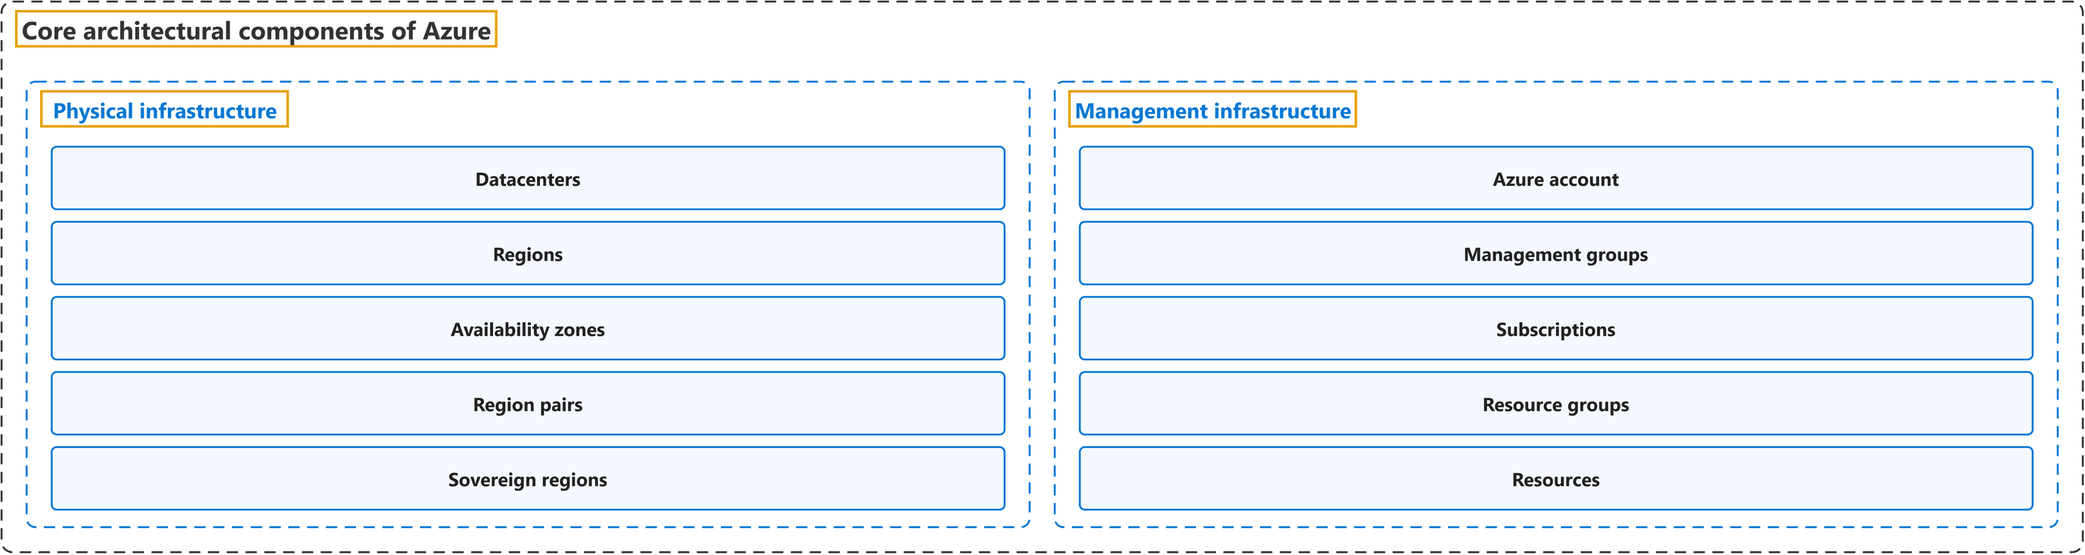
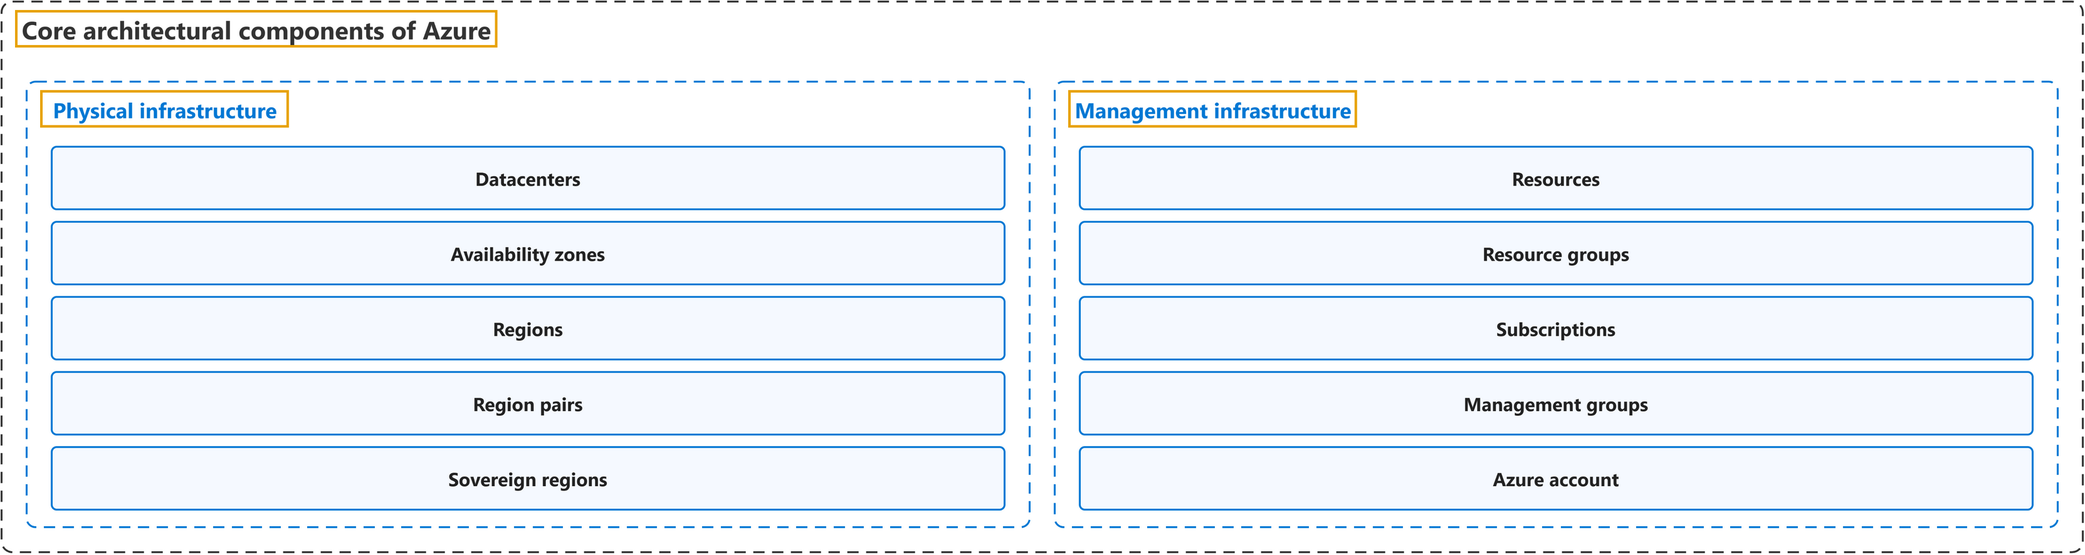
feat(azure): topic 1 renamed Cloud computing (official definition; stubs at cloud-concepts URLs); topic pages get Classification and Glossary headings, the framed topic as first glossary row, ordered groups, two-column exam table; watch.py preview with auto rebuild and reload

diff --git a/docs/templates/kb/public/kb.js b/docs/templates/kb/public/kb.js
@@ -519,4 +519,20 @@ async function main() {
   lightbox()
 }
 
+// Local preview only: watch.py rewrites kb-build.txt after each rebuild; reload the page when it changes.
+function liveReload() {
+  if (location.hostname !== 'localhost') return
+  let seen = null
+  const check = async () => {
+    const r = await fetch(`${rel}kb-build.txt`, { cache: 'no-store' }).catch(() => null)
+    if (!r?.ok) return // not served by watch.py
+    const stamp = await r.text()
+    if (seen !== null && stamp !== seen) location.reload()
+    seen = stamp
+    setTimeout(check, 1000)
+  }
+  check()
+}
+
 main()
+liveReload()

diff --git a/docs/templates/kb/watch.py b/docs/templates/kb/watch.py
@@ -1,0 +1,72 @@
+"""Local preview with automatic rebuild: serve docs/_site and rebuild it whenever a source file under docs/ changes.
+
+docfx 2.81 has no watch mode (`docfx --serve` builds once), so this polls the sources every second. After each build
+it writes _site/kb-build.txt; kb.js, on localhost only, polls that file and reloads the page when it changes.
+Run from the repo root (a full build takes about 10 s):
+    python docs/templates/kb/watch.py [port]
+"""
+import functools
+import http.server
+import os
+import subprocess
+import sys
+import threading
+import time
+from pathlib import Path
+
+DOCS = Path(__file__).resolve().parents[2]
+SITE = DOCS / "_site"
+DOCFX = Path.home() / ".dotnet" / "tools" / "docfx.exe"
+PORT = int(sys.argv[1]) if len(sys.argv) > 1 else 8080
+
+
+def snapshot():
+    """Modification time of every source file (the generated _site and docfx.build.json are left out)."""
+    times = {}
+    for root, dirs, files in os.walk(DOCS):
+        dirs[:] = [d for d in dirs if d not in ("_site", "obj")]
+        for f in files:
+            if f != "docfx.build.json":
+                p = os.path.join(root, f)
+                times[p] = os.stat(p).st_mtime
+    return times
+
+
+def build():
+    start = time.time()
+    r = subprocess.run([str(DOCFX), str(DOCS / "docfx.json")], capture_output=True, text=True, encoding="utf-8",
+                       errors="replace")
+    tail = [line for line in r.stdout.splitlines() if "warning(s)" in line or "error(s)" in line]
+    print(f"[{time.strftime('%H:%M:%S')}] built in {time.time() - start:.1f}s: {' '.join(s.strip() for s in tail)}",
+          flush=True)
+    if r.returncode != 0:
+        print(r.stdout[-2000:], flush=True)
+    (SITE / "kb-build.txt").write_text(str(time.time()), encoding="utf-8")
+
+
+class Quiet(http.server.SimpleHTTPRequestHandler):
+    def log_message(self, *args):
+        pass
+
+    def end_headers(self):
+        self.send_header("Cache-Control", "no-store")
+        super().end_headers()
+
+
+def serve():
+    handler = functools.partial(Quiet, directory=str(SITE))
+    http.server.ThreadingHTTPServer(("localhost", PORT), handler).serve_forever()
+
+
+if __name__ == "__main__":
+    build()
+    threading.Thread(target=serve, daemon=True).start()
+    print(f"serving http://localhost:{PORT}/ ; watching {DOCS}", flush=True)
+    last = snapshot()
+    while True:
+        time.sleep(1)
+        now = snapshot()
+        if now != last:
+            time.sleep(0.5)  # let an editor or script finish writing
+            build()
+            last = snapshot()

diff --git a/docs/cloud/azure/cloud-computing/index.md b/docs/cloud/azure/cloud-computing/index.md
@@ -1,0 +1,45 @@
+---
+title: "1. Cloud computing"
+description: "Microsoft Azure, 1. Cloud computing: deployment models, service models, actors, essential characteristics, benefits and the consumption-based model."
+ms.date: 2026-10-21
+---
+
+# 1. Cloud computing
+
+## Classification
+
+![Cloud computing sorted into six groups: deployment models, service models, actors, essential characteristics, benefits and the consumption-based model. Predictability and manageability are grey: not taught in a course yet.](media/cloud-computing.png)
+
+## Glossary
+
+| Term | Definition | 中文翻译 | Source |
+|---|---|---|---|
+| **Cloud computing**<br>云计算 | "**Cloud computing** is the **delivery of computing services** over the **internet**. Computing services include **common IT infrastructure** such as virtual machines, storage, databases, and networking." | **云计算**是指**计算服务的交付**，通过**互联网**进行。计算服务包括**常见的 IT 基础结构**，例如虚拟机、存储、数据库和网络。 | [Microsoft, n.d.-a, "What is cloud computing" unit, para. 1](https://learn.microsoft.com/en-us/training/modules/describe-cloud-compute/3-what-cloud-compute#:~:text=Cloud%20computing%20is%20the%20delivery%20of%20computing%20services%20over%20the%20internet) |
+| **[Deployment models](deployment-models.md)**<br>部署模型 | "**Deployment models** describe how cloud environments are **structured**, who **manages** them, and how they are **accessed**." | **部署模型**描述云环境如何**构建**、由谁**管理**，以及如何**访问**。 | [Microsoft, n.d.-b, "Types of cloud deployment models" section, para. 1](https://azure.microsoft.com/en-us/resources/cloud-computing-dictionary/types-of-cloud-computing#:~:text=Deployment%20models%20describe%20how%20cloud%20environments%20are%20structured) |
+| **[Service models](service-models.md)**<br>服务模型 | "**Service models** describe how cloud resources are **delivered to users**. They determine how much **control** an organization has over infrastructure, platforms, or applications." | **服务模型**描述云资源如何**交付给用户**。它们决定组织对基础结构、平台或应用程序拥有多少**控制权**。 | [Microsoft, n.d.-b, "Types of cloud service models" section, para. 1](https://azure.microsoft.com/en-us/resources/cloud-computing-dictionary/types-of-cloud-computing#:~:text=Service%20models%20describe%20how%20cloud%20resources%20are%20delivered%20to%20users.%20They) |
+| **[Actors](actors.md)**<br>参与者 | "... the NIST cloud computing reference architecture defines **five major actors**: cloud consumer, cloud provider, cloud carrier, cloud auditor and cloud broker. Each actor is an **entity (a person or an organization)** that **participates in a transaction or process** and/or performs tasks in cloud computing." | ……NIST 云计算参考架构定义了**五个主要参与者**：云使用者、云提供者、云运营商、云审计者和云代理。每个参与者都是一个**实体（个人或组织）**，它**参与事务或流程**，和/或在云计算中执行任务。 | [Liu et al., 2011, Section 2.1, para. 2](https://doi.org/10.6028/NIST.SP.500-292) |
+| **[Essential characteristics](essential-characteristics.md)**<br>基本特征 | "This cloud model is composed of **five essential characteristics**, **three service models**, and **four deployment models**." | 这种云模型由**五个基本特征**、**三种服务模型**和**四种部署模型**组成。 | [Mell &amp; Grance, 2011, Section 2, para. 1](https://doi.org/10.6028/NIST.SP.800-145) |
+| **[Benefits](benefits.md)**<br>优势 | "You learn how cloud computing can help you **meet variable demand** while providing a **good experience** for your customer. You also learn about **security**, **governance**, sustainability, and overall **manageability** in the cloud." | 你将了解云计算如何帮助你**满足可变需求**，同时为客户提供**良好的体验**。你还将了解云中的**安全性**、**治理**、可持续性和整体**可管理性**。 | [Microsoft, n.d.-a, "Introduction" unit of "Describe the benefits of using cloud services", para. 1](https://learn.microsoft.com/en-us/training/modules/describe-benefits-use-cloud-services/1-introduction#:~:text=You%20learn%20how%20cloud%20computing%20can%20help%20you%20meet%20variable%20demand) |
+| **[Consumption-based model](consumption-based-model.md)**<br>基于消耗的模型 | "Cloud computing operates on a **consumption-based model**. You **pay for the IT resources you use**, and nothing more." | 云计算采用**基于消耗的模型**。你**只为所使用的 IT 资源付费**，仅此而已。 | [Microsoft, n.d.-a, "Describe the consumption-based model" unit, para. 1](https://learn.microsoft.com/en-us/training/modules/describe-cloud-compute/6-describe-consumption-based-model#:~:text=Cloud%20computing%20operates%20on%20a%20consumption%2Dbased%20model) |
+
+## Coverage
+
+| Certification | Skill area |
+|---|---|
+| AZ-900 Microsoft Azure Fundamentals | [Describe cloud concepts (25–30%)](https://learn.microsoft.com/en-us/credentials/certifications/resources/study-guides/az-900#describe-cloud-concepts-2530) |
+
+| Course | Weeks | Groups |
+|---|---|---|
+| CST8911 Introduction to Cloud Computing | 1, 2, 4, 7 | Deployment models, service models, actors, essential characteristics, benefits, consumption-based model |
+| CST8912 Cloud Solution Architecture | 1, 5, 6 | Deployment models, service models, actors, essential characteristics, benefits, consumption-based model |
+| CST8913 Cloud Migration | 2, 3, 5 | Deployment models, service models, actors, benefits, consumption-based model |
+| CST8915 Full-stack Cloud-native Development | 1, 2, 4, 6 | Deployment models, service models, essential characteristics, benefits |
+| CST8916 Remote Data and Real-time Applications | 1, 5 | Deployment models, service models, benefits |
+
+## References
+
+- Liu, F., Tong, J., Mao, J., Bohn, R., Messina, J., Badger, L., & Leaf, D. (2011). *NIST cloud computing reference architecture* (NIST Special Publication 500-292). National Institute of Standards and Technology. https://doi.org/10.6028/NIST.SP.500-292
+- Mell, P., & Grance, T. (2011). *The NIST definition of cloud computing* (NIST Special Publication 800-145). National Institute of Standards and Technology. https://doi.org/10.6028/NIST.SP.800-145
+- Microsoft. (n.d.-a). *Microsoft Azure Fundamentals: Describe cloud concepts* [Learning path]. Microsoft Learn. Retrieved October 21, 2026, from https://learn.microsoft.com/en-us/training/paths/microsoft-azure-fundamentals-describe-cloud-concepts/
+- Microsoft. (n.d.-b). *Types of cloud computing*. Microsoft Azure. Retrieved October 22, 2026, from https://azure.microsoft.com/en-us/resources/cloud-computing-dictionary/types-of-cloud-computing
+- Microsoft. (2026). *Study guide for Exam AZ-900: Microsoft Azure Fundamentals*. Microsoft Learn. https://learn.microsoft.com/en-us/credentials/certifications/resources/study-guides/az-900

diff --git a/docs/cloud/azure/cloud-concepts/index.md b/docs/cloud/azure/cloud-concepts/index.md
@@ -1,40 +1,3 @@
 ---
-title: "1. Cloud concepts"
-description: "Microsoft Azure, 1. Cloud concepts: deployment models, service models, actors, essential characteristics, benefits and the consumption-based model."
-ms.date: 2026-10-21
+redirect_url: ../cloud-computing/index.html
 ---
-
-# 1. Cloud concepts
-
-![Cloud concepts sorted into six groups: deployment models, service models, actors, essential characteristics, benefits and the consumption-based model. Predictability and manageability are grey: not taught in a course yet.](media/cloud-concepts.png)
-
-| Term | Definition | 中文翻译 | Source |
-|---|---|---|---|
-| **[Deployment models](deployment-models.md)**<br>部署模型 | "**Deployment models** describe how cloud environments are **structured**, who **manages** them, and how they are **accessed**." | **部署模型**描述云环境如何**构建**、由谁**管理**，以及如何**访问**。 | [Microsoft, n.d.-b, "Types of cloud deployment models" section, para. 1](https://azure.microsoft.com/en-us/resources/cloud-computing-dictionary/types-of-cloud-computing#:~:text=Deployment%20models%20describe%20how%20cloud%20environments%20are%20structured) |
-| **[Service models](service-models.md)**<br>服务模型 | "**Service models** describe how cloud resources are **delivered to users**. They determine how much **control** an organization has over infrastructure, platforms, or applications." | **服务模型**描述云资源如何**交付给用户**。它们决定组织对基础结构、平台或应用程序拥有多少**控制权**。 | [Microsoft, n.d.-b, "Types of cloud service models" section, para. 1](https://azure.microsoft.com/en-us/resources/cloud-computing-dictionary/types-of-cloud-computing#:~:text=Service%20models%20describe%20how%20cloud%20resources%20are%20delivered%20to%20users.%20They) |
-| **[Actors](actors.md)**<br>参与者 | "... the NIST cloud computing reference architecture defines **five major actors**: cloud consumer, cloud provider, cloud carrier, cloud auditor and cloud broker. Each actor is an **entity (a person or an organization)** that **participates in a transaction or process** and/or performs tasks in cloud computing." | ……NIST 云计算参考架构定义了**五个主要参与者**：云使用者、云提供者、云运营商、云审计者和云代理。每个参与者都是一个**实体（个人或组织）**，它**参与事务或流程**，和/或在云计算中执行任务。 | [Liu et al., 2011, Section 2.1, para. 2](https://doi.org/10.6028/NIST.SP.500-292) |
-| **[Essential characteristics](essential-characteristics.md)**<br>基本特征 | "This cloud model is composed of **five essential characteristics**, **three service models**, and **four deployment models**." | 这种云模型由**五个基本特征**、**三种服务模型**和**四种部署模型**组成。 | [Mell &amp; Grance, 2011, Section 2, para. 1](https://doi.org/10.6028/NIST.SP.800-145) |
-| **[Benefits](benefits.md)**<br>优势 | "You learn how cloud computing can help you **meet variable demand** while providing a **good experience** for your customer. You also learn about **security**, **governance**, sustainability, and overall **manageability** in the cloud." | 你将了解云计算如何帮助你**满足可变需求**，同时为客户提供**良好的体验**。你还将了解云中的**安全性**、**治理**、可持续性和整体**可管理性**。 | [Microsoft, n.d.-a, "Introduction" unit of "Describe the benefits of using cloud services", para. 1](https://learn.microsoft.com/en-us/training/modules/describe-benefits-use-cloud-services/1-introduction#:~:text=You%20learn%20how%20cloud%20computing%20can%20help%20you%20meet%20variable%20demand) |
-| **[Consumption-based model](consumption-based-model.md)**<br>基于消耗的模型 | "Cloud computing operates on a **consumption-based model**. You **pay for the IT resources you use**, and nothing more." | 云计算采用**基于消耗的模型**。你**只为所使用的 IT 资源付费**，仅此而已。 | [Microsoft, n.d.-a, "Describe the consumption-based model" unit, para. 1](https://learn.microsoft.com/en-us/training/modules/describe-cloud-compute/6-describe-consumption-based-model#:~:text=Cloud%20computing%20operates%20on%20a%20consumption%2Dbased%20model) |
-
-## Coverage
-
-| Certification | Part of the exam |
-|---|---|
-| AZ-900 Microsoft Azure Fundamentals | [Describe cloud concepts (25–30%)](https://learn.microsoft.com/en-us/credentials/certifications/resources/study-guides/az-900#describe-cloud-concepts-2530) |
-
-| Course | Weeks | Groups |
-|---|---|---|
-| CST8911 Introduction to Cloud Computing | 1, 2, 4, 7 | Deployment models, service models, actors, essential characteristics, benefits, consumption-based model |
-| CST8912 Cloud Solution Architecture | 1, 5, 6 | Deployment models, service models, actors, essential characteristics, benefits, consumption-based model |
-| CST8913 Cloud Migration | 2, 3, 5 | Deployment models, service models, actors, benefits, consumption-based model |
-| CST8915 Full-stack Cloud-native Development | 1, 2, 4, 6 | Deployment models, service models, essential characteristics, benefits |
-| CST8916 Remote Data and Real-time Applications | 1, 5 | Deployment models, service models, benefits |
-
-## References
-
-- Liu, F., Tong, J., Mao, J., Bohn, R., Messina, J., Badger, L., & Leaf, D. (2011). *NIST cloud computing reference architecture* (NIST Special Publication 500-292). National Institute of Standards and Technology. https://doi.org/10.6028/NIST.SP.500-292
-- Mell, P., & Grance, T. (2011). *The NIST definition of cloud computing* (NIST Special Publication 800-145). National Institute of Standards and Technology. https://doi.org/10.6028/NIST.SP.800-145
-- Microsoft. (n.d.-a). *Microsoft Azure Fundamentals: Describe cloud concepts* [Learning path]. Microsoft Learn. Retrieved October 21, 2026, from https://learn.microsoft.com/en-us/training/paths/microsoft-azure-fundamentals-describe-cloud-concepts/
-- Microsoft. (n.d.-b). *Types of cloud computing*. Microsoft Azure. Retrieved October 22, 2026, from https://azure.microsoft.com/en-us/resources/cloud-computing-dictionary/types-of-cloud-computing
-- Microsoft. (2026). *Study guide for Exam AZ-900: Microsoft Azure Fundamentals*. Microsoft Learn. https://learn.microsoft.com/en-us/credentials/certifications/resources/study-guides/az-900

diff --git a/docs/cloud/azure/README.md b/docs/cloud/azure/README.md
@@ -8,7 +8,7 @@ Only the folders below may exist, in this order. The number is the learning orde
 
 | No. | Folder | Title | Figure | Source |
 |---|---|---|---|---|
-| 1 | `cloud-concepts/` | Cloud concepts | classification | [AZ-900 learning path: Describe cloud concepts](https://learn.microsoft.com/en-us/training/paths/microsoft-azure-fundamentals-describe-cloud-concepts/); [NIST SP 800-145, The NIST Definition of Cloud Computing](https://csrc.nist.gov/pubs/sp/800/145/final); [NIST SP 500-292, NIST Cloud Computing Reference Architecture](https://www.nist.gov/publications/nist-cloud-computing-reference-architecture) |
+| 1 | `cloud-computing/` | Cloud computing | classification | [AZ-900 learning path: Describe cloud concepts](https://learn.microsoft.com/en-us/training/paths/microsoft-azure-fundamentals-describe-cloud-concepts/); [NIST SP 800-145, The NIST Definition of Cloud Computing](https://csrc.nist.gov/pubs/sp/800/145/final); [NIST SP 500-292, NIST Cloud Computing Reference Architecture](https://www.nist.gov/publications/nist-cloud-computing-reference-architecture) |
 | 2 | `core-architectural-components/` | Core architectural components of Azure | classification | [AZ-900 module: Describe the core architectural components of Azure](https://learn.microsoft.com/en-us/training/modules/describe-core-architectural-components-of-azure/) |
 | 3 | `compute/` | Compute | classification | [Azure documentation: Compute](https://learn.microsoft.com/en-us/azure/?product=compute) |
 | 4 | `containers/` | Containers | classification | [Azure documentation: Containers](https://learn.microsoft.com/en-us/azure/?product=containers) |
@@ -33,7 +33,7 @@ Not used by any course yet, so no folder: Developer Tools, Hybrid + multicloud, 
 ## Files (level 2: inside a topic folder)
 
 - `README.md`: the folder's own contract: the allowed sub-pages and, for each, its allowed sections.
-- `index.md`: the topic overview. H1 is `<No.>. <Title>`. It opens with one big classification figure: an outer frame named after the topic (top left) holding its parts, grouped by kind in dashed groups, names only, no connecting lines and no section numbers. Parts taught in a course are blue; parts in the official sources but not taught yet are grey dashed. Architecture and process figures belong in the sub-pages. Right below the figure comes one term table, `Term | Definition | 中文翻译 | Source`, with one row per group in the figure, in figure order, each term linking to its sub-page: the official definition quoted with its key words bolded, the Chinese translation with the same key words bolded in the same order, and the source with section and paragraph. Then, in this order: `## Coverage` (certifications and courses that cover the topic) and `## References` (the official sources, APA). No `## Contents` section: the left menu already lists the sub-pages.
+- `index.md`: the topic overview. H1 is `<No.>. <Title>`. It opens with `## Classification` holding one big classification figure: an outer frame named after the topic (top left) holding its parts, grouped by kind in dashed groups, names only, no connecting lines and no section numbers. Inside a group the boxes follow one order you can name: small to large when the parts contain each other (datacenters, availability zones, regions, region pairs), otherwise the order of the official source. Parts taught in a course are blue; parts in the official sources but not taught yet are grey dashed. Architecture and process figures belong in the sub-pages. Right below the figure comes `## Glossary` with one term table, `Term | Definition | 中文翻译 | Source`, whose first row is the topic name framed at the top left of the figure, followed by one row per group in the figure, in figure order, each group linking to its sub-page: the official definition quoted with its key words bolded, the Chinese translation with the same key words bolded in the same order, and the source with section and paragraph. Then, in this order: `## Coverage` (certifications and courses that cover the topic) and `## References` (the official sources, APA). No `## Contents` section: the left menu already lists the sub-pages.
 - One file per sub-page, listed in the folder README. The sub-pages are the groups of the topic figure, one page per dashed group, in figure order, titled with the group name and numbered `<No.>.<n>` (for example `1.1 Deployment models`). The menu, the figure and the term table under it therefore show the same second level.
 - `media/`: the figures, drawn by us in draw.io (no copied images).
 

diff --git a/docs/cloud/azure/core-architectural-components/index.md b/docs/cloud/azure/core-architectural-components/index.md
@@ -6,18 +6,23 @@ ms.date: 2026-10-22
 
 # 2. Core architectural components of Azure
 
-![Core architectural components of Azure sorted into two groups: physical infrastructure (datacenters, regions, availability zones, region pairs, sovereign regions) and management infrastructure (Azure account, management groups, subscriptions, resource groups, resources).](media/core-architectural-components.png)
+## Classification
+
+![Core architectural components of Azure sorted into two groups: physical infrastructure (datacenters, availability zones, regions, region pairs, sovereign regions) and management infrastructure (resources, resource groups, subscriptions, management groups, Azure account).](media/core-architectural-components.png)
+
+## Glossary
 
 | Term | Definition | 中文翻译 | Source |
 |---|---|---|---|
+| **Core architectural components of Azure**<br>Azure 核心体系结构组件 | "Azure's **core architectural components** can be broken down into **two main groupings**: the **physical infrastructure** and the **management infrastructure**." | Azure 的**核心体系结构组件**可以分为**两个主要分组**：**物理基础结构**和**管理基础结构**。 | [Microsoft, n.d., "Describe Azure physical infrastructure" unit, para. 1](https://learn.microsoft.com/en-us/training/modules/describe-core-architectural-components-of-azure/5-describe-azure-physical-infrastructure#:~:text=Azure%27s%20core%20architectural%20components%20can%20be%20broken%20down) |
 | **[Physical infrastructure](physical-infrastructure.md)**<br>物理基础结构 | "The **physical infrastructure** for Azure starts with **datacenters**. These datacenters are facilities with **servers arranged in racks**, with dedicated **power, cooling, and networking infrastructure** ..." | Azure 的**物理基础结构**从**数据中心**开始。这些数据中心是一些设施，其中的**服务器排列在机架中**，并配有专用的**电源、冷却和网络基础结构**…… | [Microsoft, n.d., "Describe Azure physical infrastructure" unit, "Physical infrastructure" section, para. 1](https://learn.microsoft.com/en-us/training/modules/describe-core-architectural-components-of-azure/5-describe-azure-physical-infrastructure#:~:text=The%20physical%20infrastructure%20for%20Azure%20starts%20with%20datacenters) |
 | **[Management infrastructure](management-infrastructure.md)**<br>管理基础结构 | "The **management infrastructure** includes Azure **resources and resource groups**, **subscriptions**, and **accounts**." | **管理基础结构**包括 Azure **资源和资源组**、**订阅**以及**帐户**。 | [Microsoft, n.d., "Describe Azure management infrastructure" unit, para. 1](https://learn.microsoft.com/en-us/training/modules/describe-core-architectural-components-of-azure/6-describe-azure-management-infrastructure#:~:text=The%20management%20infrastructure%20includes%20Azure%20resources) |
 
 ## Coverage
 
-| Certification | Part of the exam |
+| Certification | Skill area |
 |---|---|
-| AZ-900 Microsoft Azure Fundamentals | [Describe Azure architecture and services (35–40%)](https://learn.microsoft.com/en-us/credentials/certifications/resources/study-guides/az-900#describe-azure-architecture-and-services-3540): Describe the core architectural components of Azure |
+| AZ-900 Microsoft Azure Fundamentals | [Describe Azure architecture and services (35–40%)](https://learn.microsoft.com/en-us/credentials/certifications/resources/study-guides/az-900#describe-azure-architecture-and-services-3540) |
 
 | Course | Weeks | Groups |
 |---|---|---|

diff --git a/docs/cloud/azure/cloud-computing/README.md b/docs/cloud/azure/cloud-computing/README.md
@@ -1,4 +1,4 @@
-# 1. Cloud concepts: allowed sub-pages
+# 1. Cloud computing: allowed sub-pages
 
 Follows `../README.md`. Figure on `index.md`: classification (see `../README.md`). Source: [AZ-900 learning path: Describe cloud concepts](https://learn.microsoft.com/en-us/training/paths/microsoft-azure-fundamentals-describe-cloud-concepts/); [NIST SP 800-145, The NIST Definition of Cloud Computing](https://csrc.nist.gov/pubs/sp/800/145/final); [NIST SP 500-292, NIST Cloud Computing Reference Architecture](https://www.nist.gov/publications/nist-cloud-computing-reference-architecture).
 
@@ -6,7 +6,7 @@ Follows `../README.md`. Figure on `index.md`: classification (see `../README.md`
 
 | No. | File | Title (group name in the figure) | Sources | Allowed sections (H2 = the parts in the figure, in figure order) |
 |---|---|---|---|---|
-| 1.1 | `deployment-models.md` | Deployment models | [AZ-900 unit: Define cloud models](https://learn.microsoft.com/en-us/training/modules/describe-cloud-compute/5-define-cloud-models); [Azure: Types of cloud computing](https://azure.microsoft.com/en-us/resources/cloud-computing-dictionary/types-of-cloud-computing); [NIST SP 800-145, The NIST Definition of Cloud Computing](https://doi.org/10.6028/NIST.SP.800-145) | 1.1.1 Public cloud, 1.1.2 Private cloud, 1.1.3 Community cloud, 1.1.4 Hybrid cloud, 1.1.5 Multicloud |
+| 1.1 | `deployment-models.md` | Deployment models | [AZ-900 unit: Define cloud models](https://learn.microsoft.com/en-us/training/modules/describe-cloud-compute/5-define-cloud-models); [Azure: Types of cloud computing](https://azure.microsoft.com/en-us/resources/cloud-computing-dictionary/types-of-cloud-computing); [NIST SP 800-145, The NIST Definition of Cloud Computing](https://doi.org/10.6028/NIST.SP.800-145) | 1.1.1 Private cloud, 1.1.2 Community cloud, 1.1.3 Public cloud, 1.1.4 Hybrid cloud, 1.1.5 Multicloud |
 | 1.2 | `service-models.md` | Service models | [AZ-900 module: Describe cloud service types](https://learn.microsoft.com/en-us/training/modules/describe-cloud-service-types/); [AZ-900 unit: Describe the shared responsibility model](https://learn.microsoft.com/en-us/training/modules/describe-cloud-compute/4-describe-shared-responsibility-model); [Azure: Types of cloud computing](https://azure.microsoft.com/en-us/resources/cloud-computing-dictionary/types-of-cloud-computing); [NIST SP 800-145, The NIST Definition of Cloud Computing](https://doi.org/10.6028/NIST.SP.800-145) | 1.2.1 Infrastructure as a service (IaaS), 1.2.2 Platform as a service (PaaS), 1.2.3 Software as a service (SaaS), 1.2.4 Shared responsibility model |
 | 1.3 | `actors.md` | Actors | [NIST SP 500-292, NIST Cloud Computing Reference Architecture](https://doi.org/10.6028/NIST.SP.500-292) | 1.3.1 Cloud consumer, 1.3.2 Cloud provider, 1.3.3 Cloud auditor, 1.3.4 Cloud broker, 1.3.5 Cloud carrier |
 | 1.4 | `essential-characteristics.md` | Essential characteristics | [NIST SP 800-145, The NIST Definition of Cloud Computing](https://doi.org/10.6028/NIST.SP.800-145) | 1.4.1 On-demand self-service, 1.4.2 Broad network access, 1.4.3 Resource pooling, 1.4.4 Rapid elasticity, 1.4.5 Measured service |

diff --git a/docs/cloud/azure/core-architectural-components/README.md b/docs/cloud/azure/core-architectural-components/README.md
@@ -6,5 +6,5 @@ Follows `../README.md`. Figure on `index.md`: classification (see `../README.md`
 
 | No. | File | Title (group name in the figure) | Sources | Allowed sections (H2 = the parts in the figure, in figure order) |
 |---|---|---|---|---|
-| 2.1 | `physical-infrastructure.md` | Physical infrastructure | [AZ-900 unit: Describe Azure physical infrastructure](https://learn.microsoft.com/en-us/training/modules/describe-core-architectural-components-of-azure/5-describe-azure-physical-infrastructure) | 2.1.1 Datacenters, 2.1.2 Regions, 2.1.3 Availability zones, 2.1.4 Region pairs, 2.1.5 Sovereign regions |
-| 2.2 | `management-infrastructure.md` | Management infrastructure | [AZ-900 unit: Describe Azure management infrastructure](https://learn.microsoft.com/en-us/training/modules/describe-core-architectural-components-of-azure/6-describe-azure-management-infrastructure); [AZ-900 unit: Get started with Azure accounts](https://learn.microsoft.com/en-us/training/modules/describe-core-architectural-components-of-azure/3-get-started-azure-accounts) | 2.2.1 Azure account, 2.2.2 Management groups, 2.2.3 Subscriptions, 2.2.4 Resource groups, 2.2.5 Resources |
+| 2.1 | `physical-infrastructure.md` | Physical infrastructure | [AZ-900 unit: Describe Azure physical infrastructure](https://learn.microsoft.com/en-us/training/modules/describe-core-architectural-components-of-azure/5-describe-azure-physical-infrastructure) | 2.1.1 Datacenters, 2.1.2 Availability zones, 2.1.3 Regions, 2.1.4 Region pairs, 2.1.5 Sovereign regions |
+| 2.2 | `management-infrastructure.md` | Management infrastructure | [AZ-900 unit: Describe Azure management infrastructure](https://learn.microsoft.com/en-us/training/modules/describe-core-architectural-components-of-azure/6-describe-azure-management-infrastructure); [AZ-900 unit: Get started with Azure accounts](https://learn.microsoft.com/en-us/training/modules/describe-core-architectural-components-of-azure/3-get-started-azure-accounts) | 2.2.1 Resources, 2.2.2 Resource groups, 2.2.3 Subscriptions, 2.2.4 Management groups, 2.2.5 Azure account |

diff --git a/docs/cloud/azure/cloud-concepts/service-models.md b/docs/cloud/azure/cloud-concepts/service-models.md
@@ -1,11 +1,3 @@
 ---
-title: "1.2 Service models"
-description: "Microsoft Azure, 1.2 Service models: infrastructure as a service (IaaS), platform as a service (PaaS), software as a service (SaaS), shared responsibility model."
-ms.date: 2026-10-22
+redirect_url: ../cloud-computing/service-models.html
 ---
-
-# 1.2 Service models
-
-Sources: [AZ-900 module: Describe cloud service types](https://learn.microsoft.com/en-us/training/modules/describe-cloud-service-types/); [AZ-900 unit: Describe the shared responsibility model](https://learn.microsoft.com/en-us/training/modules/describe-cloud-compute/4-describe-shared-responsibility-model); [Azure: Types of cloud computing](https://azure.microsoft.com/en-us/resources/cloud-computing-dictionary/types-of-cloud-computing); [NIST SP 800-145, The NIST Definition of Cloud Computing](https://doi.org/10.6028/NIST.SP.800-145).
-
-Not written yet.

diff --git a/docs/cloud/azure/cloud-computing/service-models.md b/docs/cloud/azure/cloud-computing/service-models.md
@@ -1,0 +1,11 @@
+---
+title: "1.2 Service models"
+description: "Microsoft Azure, 1.2 Service models: infrastructure as a service (IaaS), platform as a service (PaaS), software as a service (SaaS), shared responsibility model."
+ms.date: 2026-10-22
+---
+
+# 1.2 Service models
+
+Sources: [AZ-900 module: Describe cloud service types](https://learn.microsoft.com/en-us/training/modules/describe-cloud-service-types/); [AZ-900 unit: Describe the shared responsibility model](https://learn.microsoft.com/en-us/training/modules/describe-cloud-compute/4-describe-shared-responsibility-model); [Azure: Types of cloud computing](https://azure.microsoft.com/en-us/resources/cloud-computing-dictionary/types-of-cloud-computing); [NIST SP 800-145, The NIST Definition of Cloud Computing](https://doi.org/10.6028/NIST.SP.800-145).
+
+Not written yet.

diff --git a/docs/cloud/azure/cloud-concepts/deployment-models.md b/docs/cloud/azure/cloud-concepts/deployment-models.md
@@ -1,11 +1,3 @@
 ---
-title: "1.1 Deployment models"
-description: "Microsoft Azure, 1.1 Deployment models: public cloud, private cloud, community cloud, hybrid cloud, multicloud."
-ms.date: 2026-10-22
+redirect_url: ../cloud-computing/deployment-models.html
 ---
-
-# 1.1 Deployment models
-
-Sources: [AZ-900 unit: Define cloud models](https://learn.microsoft.com/en-us/training/modules/describe-cloud-compute/5-define-cloud-models); [Azure: Types of cloud computing](https://azure.microsoft.com/en-us/resources/cloud-computing-dictionary/types-of-cloud-computing); [NIST SP 800-145, The NIST Definition of Cloud Computing](https://doi.org/10.6028/NIST.SP.800-145).
-
-Not written yet.

diff --git a/docs/cloud/azure/cloud-computing/deployment-models.md b/docs/cloud/azure/cloud-computing/deployment-models.md
@@ -1,0 +1,11 @@
+---
+title: "1.1 Deployment models"
+description: "Microsoft Azure, 1.1 Deployment models: private cloud, community cloud, public cloud, hybrid cloud, multicloud."
+ms.date: 2026-10-22
+---
+
+# 1.1 Deployment models
+
+Sources: [AZ-900 unit: Define cloud models](https://learn.microsoft.com/en-us/training/modules/describe-cloud-compute/5-define-cloud-models); [Azure: Types of cloud computing](https://azure.microsoft.com/en-us/resources/cloud-computing-dictionary/types-of-cloud-computing); [NIST SP 800-145, The NIST Definition of Cloud Computing](https://doi.org/10.6028/NIST.SP.800-145).
+
+Not written yet.
